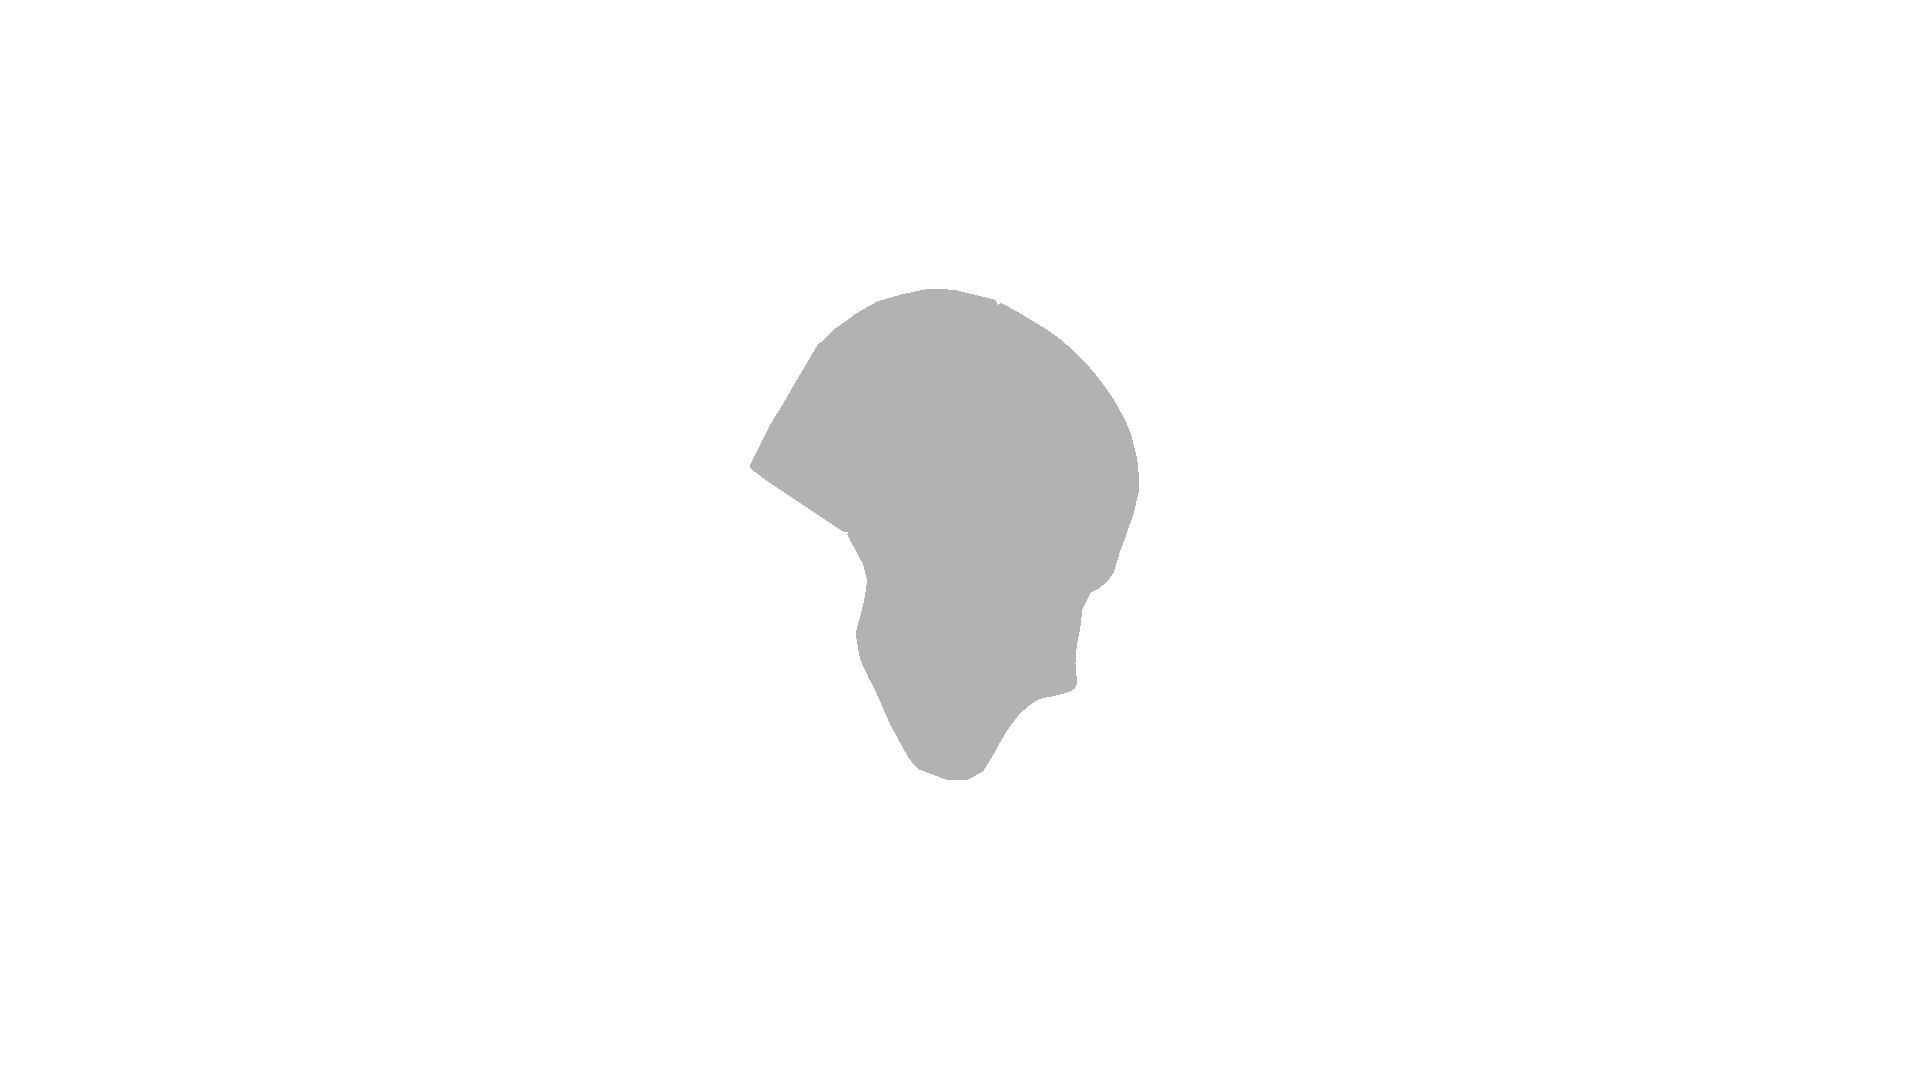
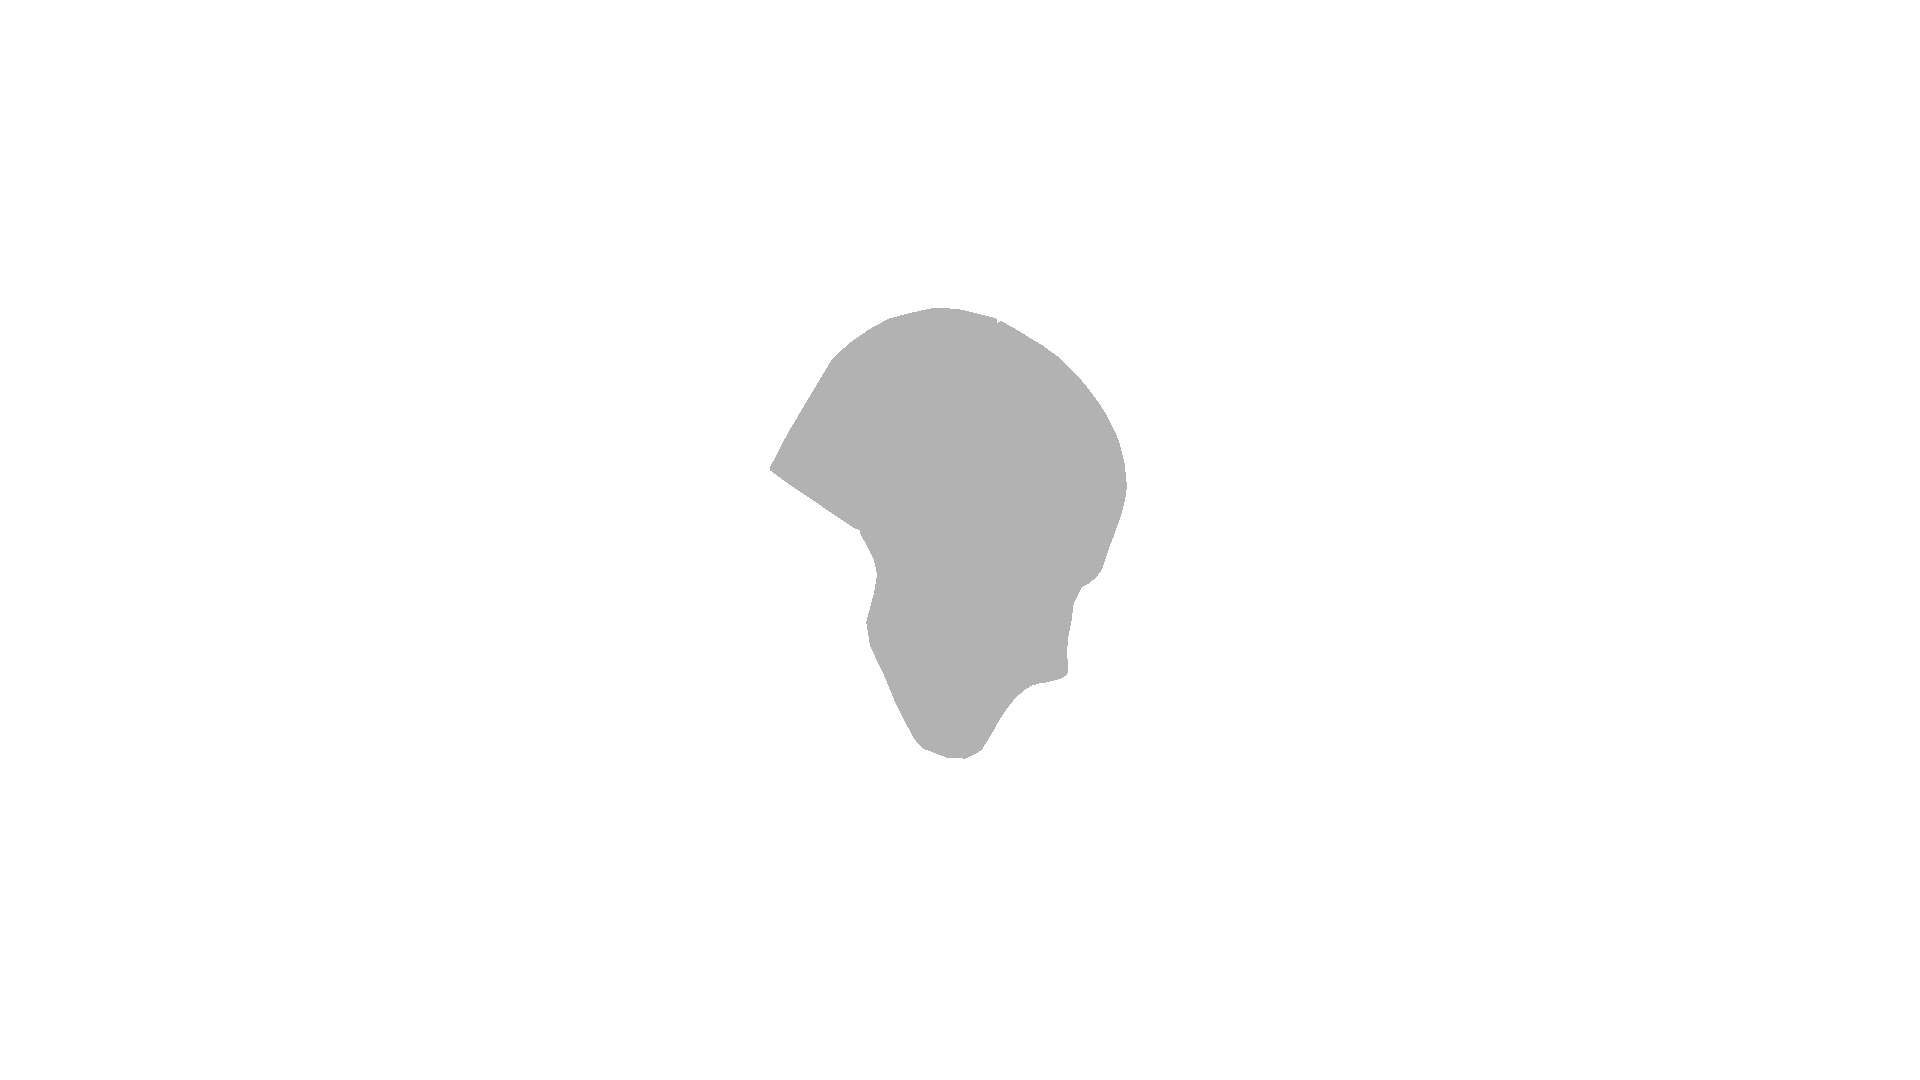
ship

diff --git a/ship/visualize.py b/ship/visualize.py
@@ -1,0 +1,180 @@
+import argparse
+import cv2
+import open3d as o3d
+import kmeans1d
+from os import listdir
+from os.path import join
+from test_model import new_model
+from scipy.spatial.transform import Rotation as rot_mat_compute
+from run_videos import read_json
+from solve_position import compute_head_ab_areas
+
+
+def visualize_wo_ab(comp1, comp2):
+    pcd = new_model()
+    pcd.translate([0, 0, 0], relative=False)
+    pcd.compute_vertex_normals()
+    head_rot = comp1["head rot"]
+
+    rotated_trajectory = [head_rot]
+
+    vis = o3d.visualization.Visualizer()
+    vis.create_window(visible=False)
+    vis.add_geometry(pcd)
+    vis.get_view_control().set_zoom(1.5)
+
+    # start writing visualizations
+    rot1 = rotated_trajectory[0]
+    if rot1 > 90:
+        rot_mat2 = rot_mat_compute.from_euler('x', -rot1 + 90,
+                                              degrees=True).as_matrix()
+    else:
+        rot_mat2 = rot_mat_compute.from_euler('x', rot1 - 90,
+                                              degrees=True).as_matrix()
+
+    rot2 = comp2["head rot"]
+    rot_mat = rot_mat_compute.from_euler('z', rot2-90,
+                                         degrees=True).as_matrix()
+    pcd.rotate(rot_mat, pcd.get_center())
+
+    pcd.rotate(rot_mat2, pcd.get_center())
+    vis.update_geometry(pcd)
+
+    vis.run()
+    vis.destroy_window()
+    return cv2.imread("v1.png"), cv2.imread("v2.png")
+
+
+def visualize(comp1, comp2):
+    pcd = new_model()
+    pcd.translate([0, 0, 0], relative=False)
+    pcd.compute_vertex_normals()
+    du_outputs, du_outputs2, (_, _) = compute_head_ab_areas(comp1)
+    _, ab_transx, ab_transy, ab_rot = du_outputs2
+
+    rotated_trajectory = du_outputs["rot trajectory"]
+    global_head_scale = du_outputs["head scale"]
+    global_ab_scale = du_outputs["ab scale"]
+
+    vis = o3d.visualization.Visualizer()
+    vis.create_window(visible=True)
+    vis.add_geometry(pcd)
+    vis.get_view_control().set_zoom(1.5)
+
+    # start writing visualizations
+    pcd.scale(global_head_scale, pcd.get_center())
+    rot1 = rotated_trajectory[0]
+    if rot1 > 90:
+        rot_mat2 = rot_mat_compute.from_euler('x', -rot1+90,
+                                              degrees=True).as_matrix()
+    else:
+        rot_mat2 = rot_mat_compute.from_euler('x', rot1-90,
+                                              degrees=True).as_matrix()
+    pcd.rotate(rot_mat2, pcd.get_center())
+
+    rot2 = comp2["head rot"]
+    rot_mat = rot_mat_compute.from_euler('z', rot2-90,
+                                         degrees=True).as_matrix()
+    pcd.rotate(rot_mat, pcd.get_center())
+    vis.update_geometry(pcd)
+
+    ab = o3d.io.read_triangle_mesh(f"../new_particles_63.obj")
+    ab.translate([0, 0, 0], relative=False)
+    ab.compute_vertex_normals()
+    ab.scale(global_ab_scale, ab.get_center())
+    ab.translate([0, ab_transx, ab_transy])
+    ab.rotate(rot_mat_compute.from_euler("y", 90, degrees=True).as_matrix())
+
+    if ab_rot > 90:
+        rot_mat2 = rot_mat_compute.from_euler('x', -ab_rot + 90,
+                                              degrees=True).as_matrix()
+    else:
+        rot_mat2 = rot_mat_compute.from_euler('x', ab_rot - 90,
+                                              degrees=True).as_matrix()
+    ab.rotate(rot_mat2, ab.get_center())
+
+    # view 2
+    rot2 = comp2["ab rot"]
+    rot_mat = rot_mat_compute.from_euler('z', rot2 - 90,
+                                         degrees=True).as_matrix()
+    ab.rotate(rot_mat, ab.get_center())
+
+    trans = comp2["ab center"] - comp2["head center"]
+    ab.translate([trans[0], trans[1], 0])
+
+    vis.add_geometry(ab, reset_bounding_box=False)
+
+    vis.run()
+    vis.destroy_window()
+    return cv2.imread("v1.png"), cv2.imread("v2.png")
+
+
+def process(mypath='all_video'):
+    """
+    extract frames from videos stored in ../data_heavy/run
+    """
+    all_folders = [f for f in listdir(mypath)]
+
+    # check noise
+    pixels = []
+    for count, folder in enumerate(all_folders):
+        all_files = [join(join(mypath, folder), f) for f in listdir(join(mypath, folder))]
+        for video in all_files:
+            name = "%s-%s.png" % (folder, video.split('/')[-1])
+            json_name = "%s-%s.json" % (folder, video.split('/')[-1])
+            img = cv2.imread(f"images/{name}")
+            computation = read_json(f"images/{json_name}", img)
+            view = name.split(".mp4.png")[0].split("-")[-1]
+            if len(computation) == 0:
+                continue
+            if view == "1":
+                pixels.append(computation["head pixels"])
+    u = kmeans1d.cluster(pixels, 2)
+    head_pixels_lower_bound = u.centroids[0]
+
+    for count, folder in enumerate(all_folders):
+        if folder != FOLDER:
+            continue
+        print("processing", folder)
+        all_files = [join(join(mypath, folder), f) for f in listdir(join(mypath, folder))]
+        res = {}
+        for video in all_files:
+            name = "%s-%s.png" % (folder, video.split('/')[-1])
+            json_name = "%s-%s.json" % (folder, video.split('/')[-1])
+            img = cv2.imread(f"images/{name}")
+            computation = read_json(f"images/{json_name}", img)
+            view = name.split(".mp4.png")[0].split("-")[-1]
+            if len(computation) == 0:
+                continue
+            if view == "1":
+                if computation["head center"] is None:
+                    computation["head pixels"] = computation["ab pixels"]
+                    computation["head center"] = computation["ab center"]
+                    computation["head rot"] = computation["ab rot"]
+                if computation["head pixels"] <= head_pixels_lower_bound:
+                    computation["head pixels"] = computation["ab pixels"]
+                    computation["head center"] = computation["ab center"]
+
+            res[view] = [computation, img]
+        if len([u[0] for u in res.values()]) == 0:
+            continue
+        # check if airbag exists
+        if sum([u[0]["ab pixels"] for u in res.values()]) == 0:
+            airbag = False
+        else:
+            airbag = True
+
+        if not airbag:
+            _, _ = visualize_wo_ab(res["1"][0], res["2"][0])
+        else:
+            _, _ = visualize(res["1"][0], res["2"][0])
+
+
+if __name__ == '__main__':
+    parser = argparse.ArgumentParser()
+    parser.add_argument('-f', '--folder', type=str, default=False, help='input folder', required=True)
+    args = vars(parser.parse_args())
+    FOLDER = args['folder']
+    if "/" in FOLDER:
+        FOLDER = FOLDER.split("/")[-1]
+    process()

diff --git a/ship/run_videos.py b/ship/run_videos.py
@@ -5,12 +5,9 @@ import numpy as np
 import os
 import open3d as o3d
 import pickle
+import kmeans1d
 from os import listdir
 from os.path import isfile, join
-import skimage.filters
-from sklearn.cluster import KMeans
-from sklearn.utils import shuffle
-from tqdm import tqdm
 from solve_position import visualize, visualize_wo_ab
 from test_model import new_model
 from scipy.spatial.transform import Rotation as rot_mat_compute
@@ -264,14 +261,32 @@ def process_3d(comp):
     return im1, im2
 
 
-def process(mypath='data_video/all_video', output='../data_heavy/frames'):
+def process(mypath='all_video'):
     """
     extract frames from videos stored in ../data_heavy/run
     """
     show_img = True
     all_folders = [f for f in listdir(mypath)]
+
+    # check noise
+    pixels = []
     for count, folder in enumerate(all_folders):
-        # if count != 0:
+        all_files = [join(join(mypath, folder), f) for f in listdir(join(mypath, folder))]
+        for video in all_files:
+            name = "%s-%s.png" % (folder, video.split('/')[-1])
+            json_name = "%s-%s.json" % (folder, video.split('/')[-1])
+            img = cv2.imread(f"images/{name}")
+            computation = read_json(f"images/{json_name}", img)
+            view = name.split(".mp4.png")[0].split("-")[-1]
+            if len(computation) == 0:
+                continue
+            if view == "1":
+                pixels.append(computation["head pixels"])
+    u = kmeans1d.cluster(pixels, 2)
+    head_pixels_lower_bound = u.centroids[0]
+
+    for count, folder in enumerate(all_folders):
+        # if count != 3:
         #     continue
         all_files = [join(join(mypath, folder), f) for f in listdir(join(mypath, folder))]
         res = {}
@@ -288,9 +303,12 @@ def process(mypath='data_video/all_video', output='../data_heavy/frames'):
                     computation["head pixels"] = computation["ab pixels"]
                     computation["head center"] = computation["ab center"]
                     computation["head rot"] = computation["ab rot"]
+                if computation["head pixels"] <= head_pixels_lower_bound:
+                    computation["head pixels"] = computation["ab pixels"]
+                    computation["head center"] = computation["ab center"]
 
             res[view] = [computation, img]
-        print(count, all_files, [u[0] for u in res.values()])
+        print(count, folder)
         if len([u[0] for u in res.values()]) == 0:
             continue
         # check if airbag exists
@@ -308,16 +326,17 @@ def process(mypath='data_video/all_video', output='../data_heavy/frames'):
                 cv2.imshow("", np.vstack([img_ori, im3]))
                 cv2.waitKey()
                 cv2.destroyAllWindows()
-            continue
+        else:
+            img_ori = np.hstack([res["1"][1], res["2"][1]])
+            im1, im2 = visualize(res["1"][0], res["2"][0])
+            im3 = np.hstack([im1, im2])
+            im3 = cv2.resize(im3, (im3.shape[1] // 2, im3.shape[0] // 2))
+            if show_img:
+                cv2.imshow("", np.vstack([img_ori, im3]))
+                cv2.waitKey()
+                cv2.destroyAllWindows()
 
-        img_ori = np.hstack([res["1"][1], res["2"][1]])
-        im1, im2 = visualize(res["1"][0], res["2"][0])
-        im3 = np.hstack([im1, im2])
-        im3 = cv2.resize(im3, (im3.shape[1] // 2, im3.shape[0] // 2))
-        if show_img:
-            cv2.imshow("", np.vstack([img_ori, im3]))
-            cv2.waitKey()
-            cv2.destroyAllWindows()
+        cv2.imwrite(f"all_video/{folder}/res.png", np.vstack([img_ori, im3]))
 
 
 if __name__ == '__main__':

diff --git a/ship/solve_position.py b/ship/solve_position.py
@@ -244,13 +244,15 @@ def visualize(comp1, comp2):
                                                       degrees=True).as_matrix()
             ab.rotate(rot_mat2, ab.get_center())
 
+            # view 2
             rot2 = comp2["ab rot"]
             rot_mat = rot_mat_compute.from_euler('z', rot2 - 90,
                                                  degrees=True).as_matrix()
             ab.rotate(rot_mat, ab.get_center())
-            
+
             trans = comp2["ab center"] - comp2["head center"]
-            ab.translate([trans[1], trans[0], 0])
+            # print("view 2 trans", trans, comp2["ab center"], comp2["head center"])
+            ab.translate([trans[0], trans[1], 0])
 
             vis.add_geometry(ab, reset_bounding_box=False)
             ab_counter += 1
@@ -264,7 +266,6 @@ def visualize(comp1, comp2):
             vis.remove_geometry(ab, reset_bounding_box=False)
     vis.destroy_window()
     return cv2.imread("v1.png"), cv2.imread("v2.png")
-
 
 
 if __name__ == '__main__':
